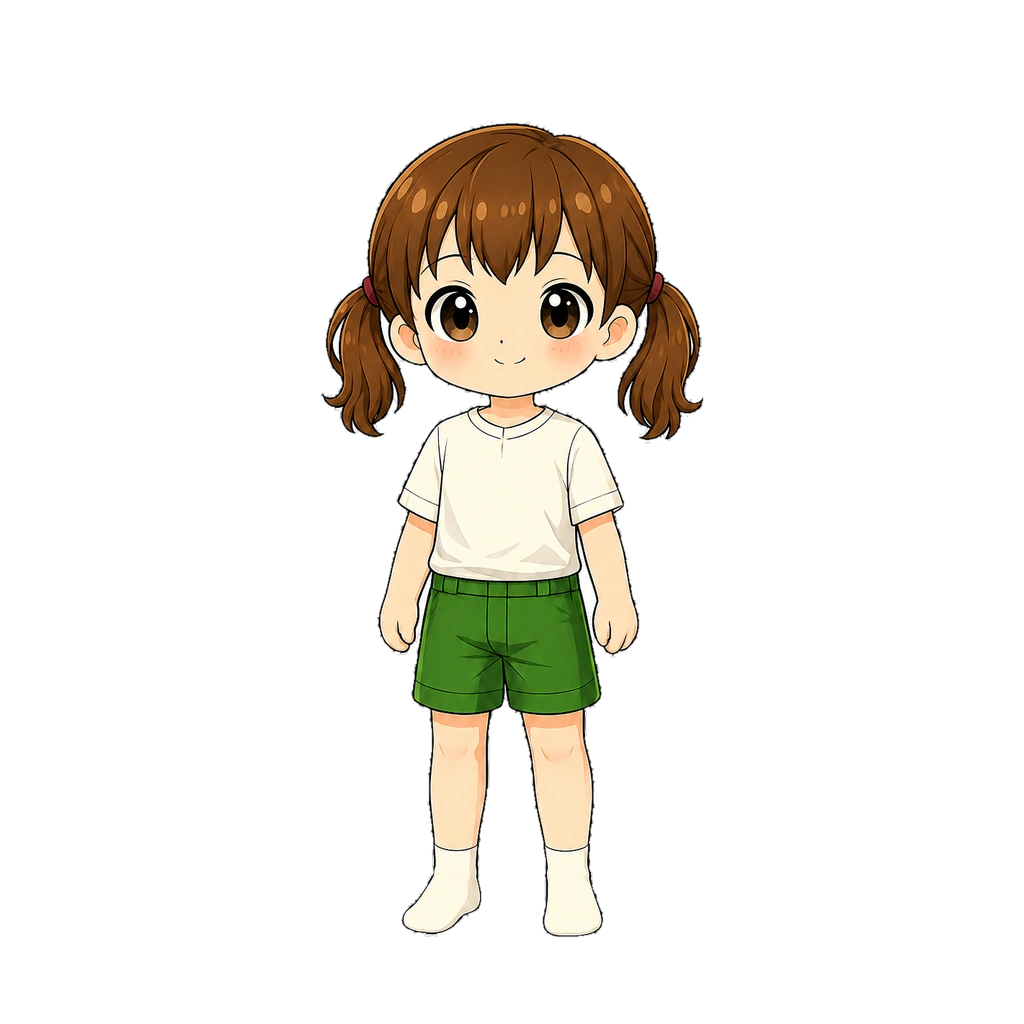
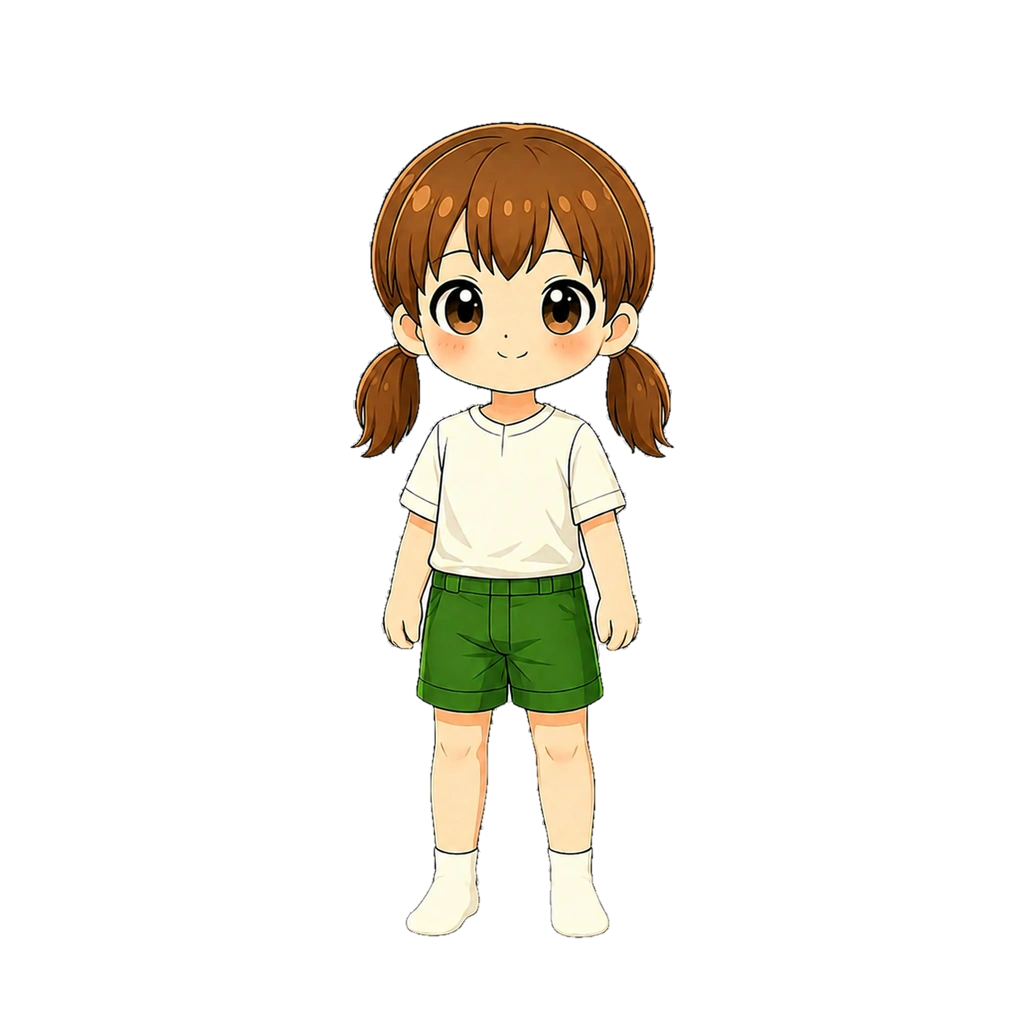
여아 베이스 v2 교체 (남아 비율 정합 버전, 사용자 승인)
- 머리 폭 380→323, 몸통(허리·밑단) 남아와 3px 이내 일치 → '커 보임' 문제 해결
- 앵커 전 항목 합격, 부츠 커버 검증(노출 21px) 통과
- 승인된 편차(목선 y=462) 규격 문서에 기록

Changed region(s): [[0.3125, 0.0938, 0.6875, 0.9375], [0.4062, 0.9062, 0.4375, 0.9375], [0.375, 0.875, 0.4062, 0.9062]]

diff --git a/docs/CHARACTER_SPEC.md b/docs/CHARACTER_SPEC.md
@@ -19,9 +19,11 @@
 | 포즈 | 양팔 내린 좌우 대칭 정자세 고정 | — | — |
 | 저장 포맷 | 투명 PNG 제작 → 앱 탑재 시 고화질 투명 WebP 변환 | — | — |
 
-> **여아 베이스 예외**: 여아 베이스(`base/default-girl.webp`)는 양갈래 머리 때문에
-> 실폭이 382px로 기준(310±20)을 초과한다. 실폭 기준은 **머리카락 제외 몸통** 기준으로
-> 판정하며, 발바닥·키·중심 앵커는 남아와 동일하게 적용한다. (실측: 상단 122·발 936·키 814·중심 512)
+> **여아 베이스(v2, 2026-07-20 사용자 승인)**: `base/default-girl.webp`.
+> 앵커 전 항목 합격(상단 122·발 937·키 815·중심 511), 몸통은 남아와 픽셀 일치
+> (반바지 허리 577/580·밑단 710/713). 승인된 편차: 얼굴이 세로로 길어 목선 y=462
+> (기준 398±10 초과) — 크기감에 영향 없어 개성으로 수용. 실폭 323은 양갈래 포함
+> 수치로, 실폭 판정은 **머리카락 제외 몸통 기준**을 적용한다.
 
 > **비율 검수 (신규 캐릭터 필수)**: 캔버스 앵커 합격만으로는 부족하다 — 머리 비율이
 > 다르면 같은 키여도 화면에서 크기가 달라 보인다. 기준 캐릭터(남아 베이스) 대비:
